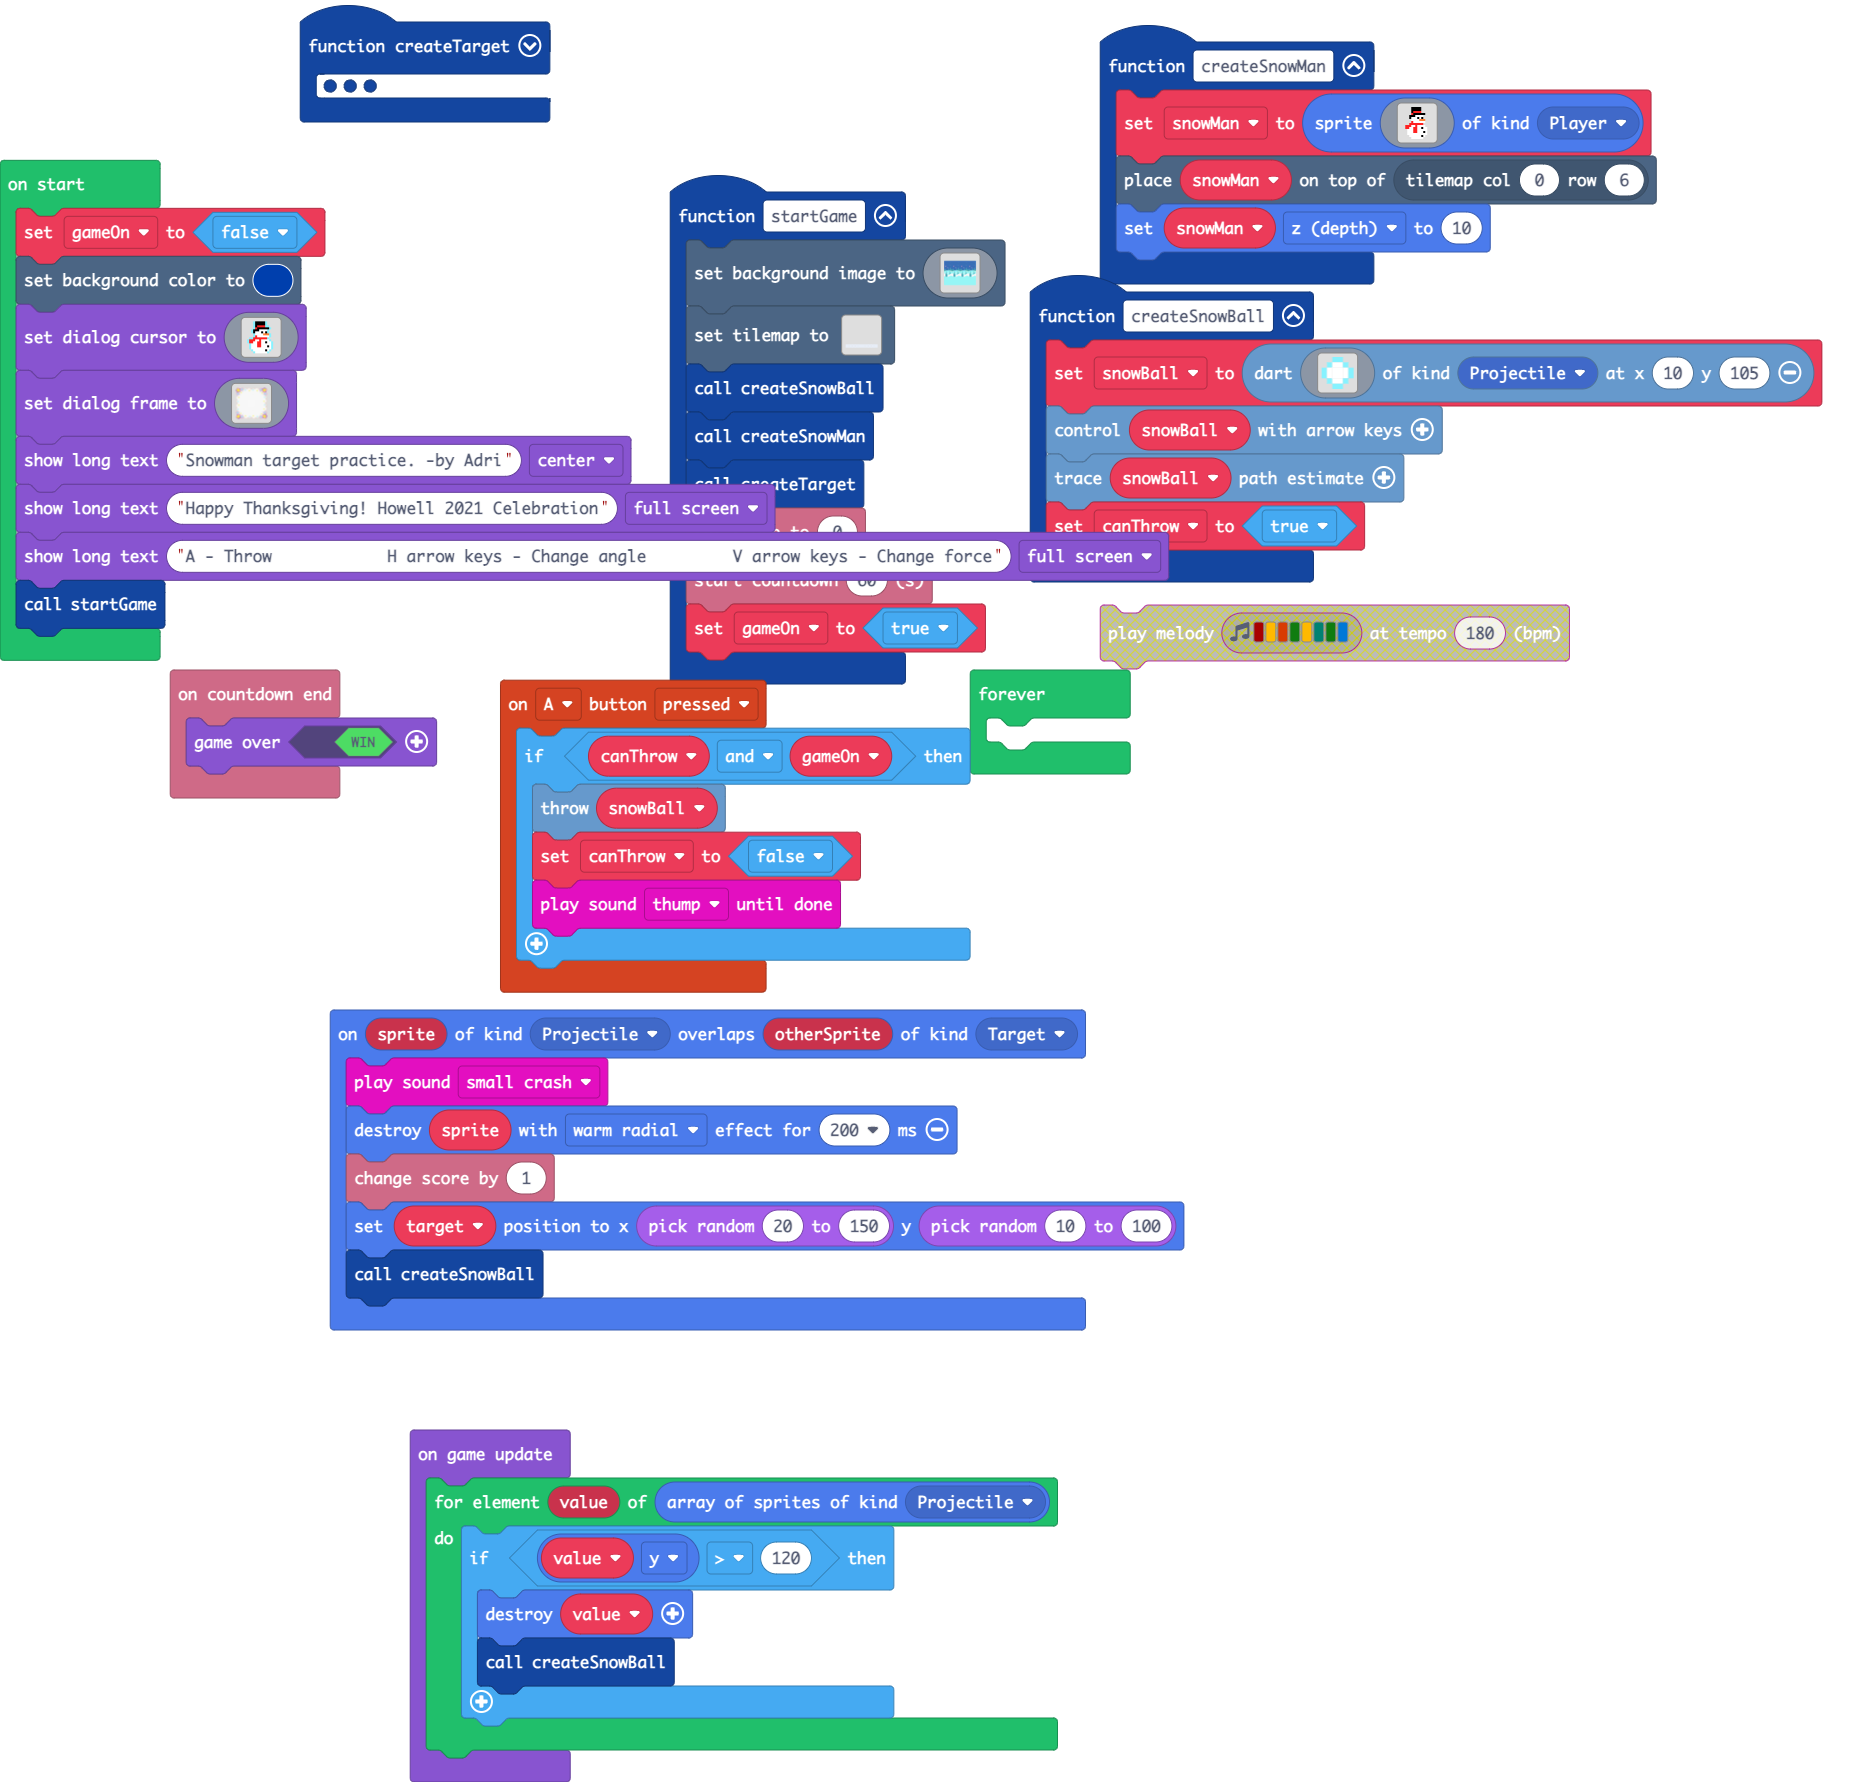
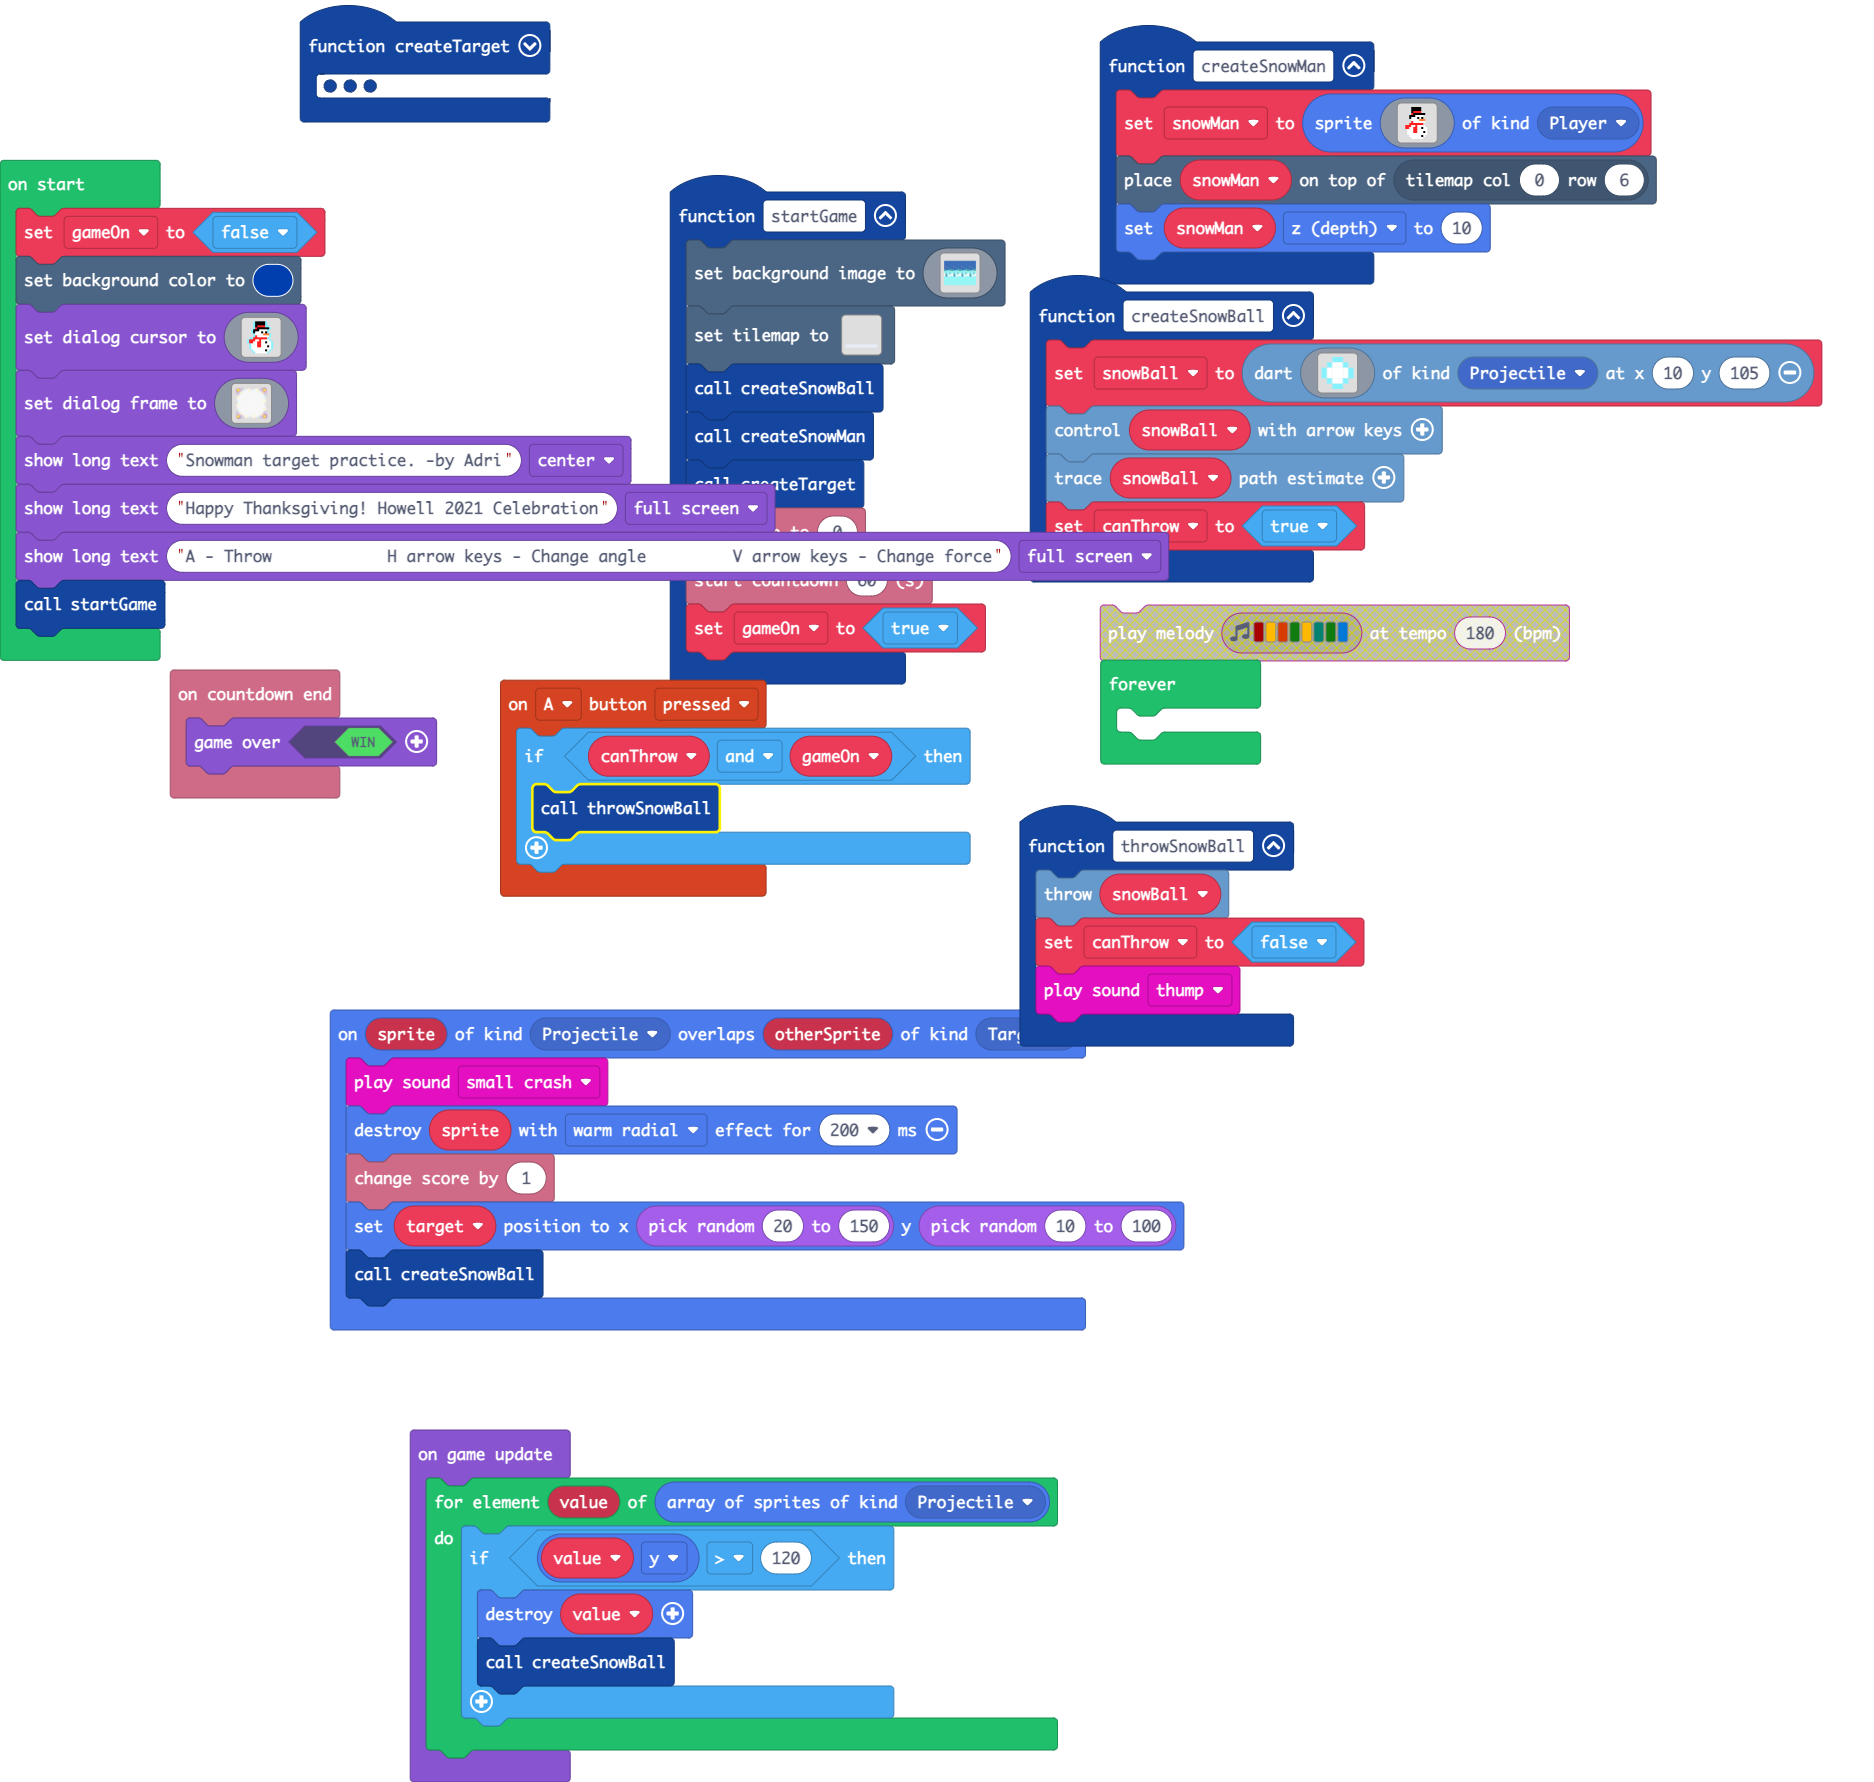
Update main.blocks, main.ts

Changed region(s): [[0.2476, 0.3704, 0.7428, 0.5864]]

diff --git a/main.ts b/main.ts
@@ -25,9 +25,7 @@ function createSnowMan () {
 }
 controller.A.onEvent(ControllerButtonEvent.Pressed, function () {
     if (canThrow && gameOn) {
-        snowBall.throwDart()
-        canThrow = false
-        music.thump.playUntilDone()
+        throwSnowBall()
     }
 })
 function startGame () {
@@ -168,6 +166,11 @@ sprites.onOverlap(SpriteKind.Projectile, SpriteKind.Target, function (sprite, ot
     target.setPosition(randint(20, 150), randint(10, 100))
     createSnowBall()
 })
+function throwSnowBall () {
+    snowBall.throwDart()
+    canThrow = false
+    music.thump.play()
+}
 info.onCountdownEnd(function () {
     game.over(true)
 })
@@ -205,8 +208,8 @@ function createSnowBall () {
     snowBall.setTrace()
     canThrow = true
 }
-let target: Sprite = null
 let snowBall: Dart = null
+let target: Sprite = null
 let canThrow = false
 let snowMan: Sprite = null
 let gameOn = false
